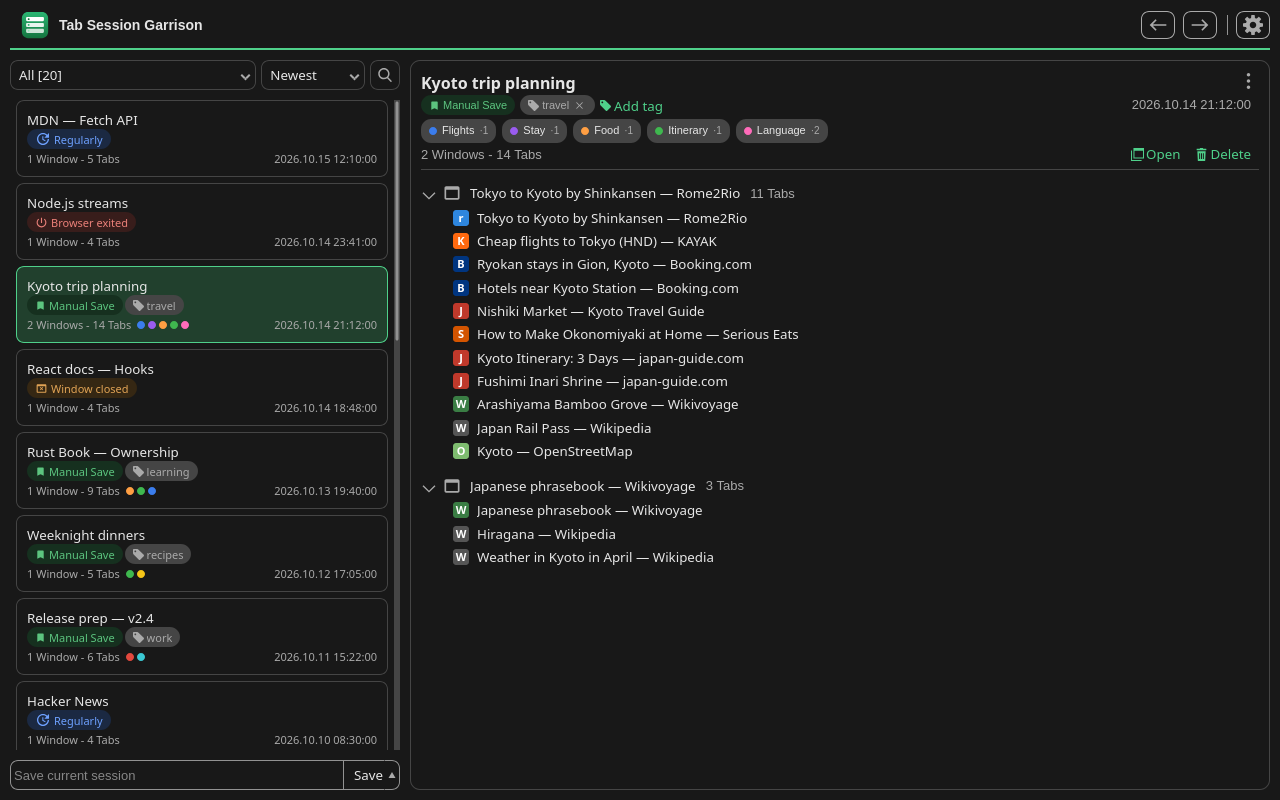
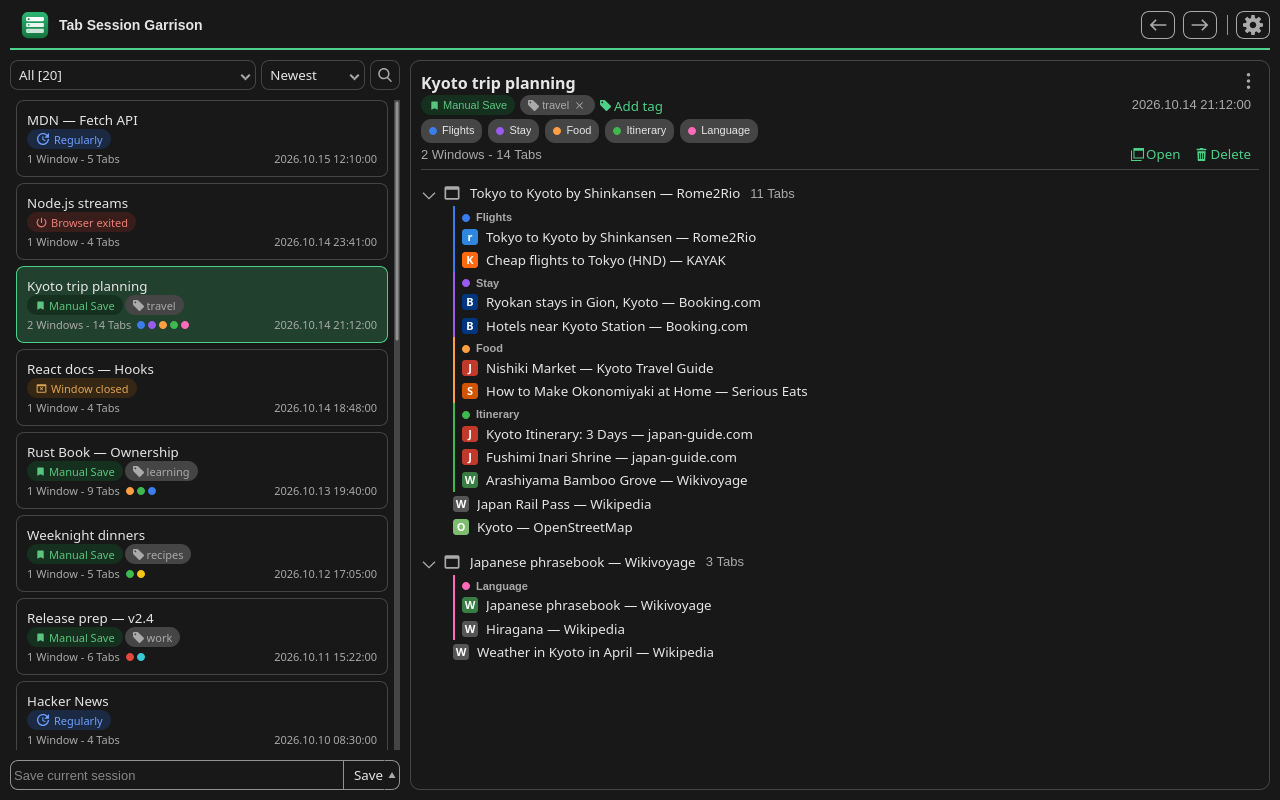
keyboard: visible focus ring, tidier cheat sheet; docs and screenshots
- The popup hid every focus outline; keyboard focus now shows a green
  ring (not on session rows, which are already highlighted).
- "?" cheat sheet: wider dialog with a themed scrollbar; the extend row
  reads "Shift + any move key" instead of six combos.
- README keyboard reference rewritten for the new keys, plus the 0.3.5
  reliability items; website gets a "Keyboard first" section.
- Screenshots regenerated (group runs in the tab list) + keyboard.png.

Changed region(s): [[0.3438, 0.25, 0.625, 0.8438], [0.375, 0.125, 0.6562, 0.1875]]

diff --git a/docs/index.html b/docs/index.html
@@ -166,6 +166,16 @@
   }
   .also { color: var(--muted); margin: 24px 0 0; font-size: .95rem; }
 
+  /* Keyboard */
+  .keys { display: grid; grid-template-columns: repeat(auto-fit, minmax(210px, 1fr)); gap: 10px; }
+  .keys div {
+    padding: 14px 16px;
+    background: var(--surface); border: 1px solid var(--border); border-radius: 12px;
+    color: var(--muted); font-size: .92rem;
+  }
+  .keys span { display: block; color: var(--text); font-weight: 600; margin-bottom: 4px; }
+  .keys p { margin: 0; }
+
   footer.wrap { border-top: 1px solid var(--border); color: var(--muted); font-size: .9rem; padding: 36px 16px 48px; }
   footer p { margin: 6px 0; }
 </style>
@@ -195,6 +205,7 @@
   <nav>
     <a href="#search">Search</a>
     <a href="#roadmap">Roadmap</a>
+    <a class="opt" href="#keyboard">Keyboard</a>
     <a class="opt" href="https://github.com/superuser-miguel/Tab-Session-Garrison">GitHub</a>
   </nav>
 </div>
@@ -332,15 +343,35 @@
   </div>
 </section>
 
+<section class="wrap" id="keyboard">
+  <span class="eyebrow">Keyboard first</span>
+  <h2>Never reach for the mouse.</h2>
+  <p class="sub">
+    Every part of the popup works from the keyboard. Press <kbd>?</kbd> in the popup to see
+    the keys; they're also listed in Settings → Shortcuts. An automated test presses every
+    key before each release, so they keep working.
+  </p>
+  <div class="keys">
+    <div><span><kbd>/</kbd> or just type</span><p>Search (<kbd>"</kbd> starts a phrase)</p></div>
+    <div><span><kbd>↑</kbd> <kbd>↓</kbd> <kbd>Home</kbd> <kbd>End</kbd></span><p>Move through sessions</p></div>
+    <div><span><kbd>Shift</kbd> + move</span><p>Select a range</p></div>
+    <div><span><kbd>Enter</kbd></span><p>Open</p></div>
+    <div><span><kbd>Ctrl</kbd>+<kbd>Enter</kbd> · <kbd>Alt</kbd>+<kbd>Enter</kbd></span><p>Replace or add to this window</p></div>
+    <div><span><kbd>→</kbd> <kbd>←</kbd></span><p>Into the tab list and back</p></div>
+    <div><span><kbd>F2</kbd> · <kbd>Shift</kbd>+<kbd>F2</kbd></span><p>Rename · add tags</p></div>
+    <div><span><kbd>Del</kbd> · <kbd>Ctrl</kbd>+<kbd>Z</kbd></span><p>Delete · undo</p></div>
+  </div>
+</section>
+
 <section class="wrap" id="more">
   <span class="eyebrow">The rest of the toolkit</span>
   <h2>Built for big profiles.</h2>
-  <p class="sub">Once you've found it, everything else stays fast and keyboard-friendly.</p>
+  <p class="sub">Once you've found it, everything else stays fast.</p>
   <div class="grid">
     <div class="card">
-      <h3>Keyboard first</h3>
-      <p>Arrows to move, <kbd>Shift</kbd>+arrows to extend, <kbd>Ctrl</kbd>+<kbd>A</kbd> to
-        select all, <kbd>Enter</kbd> to restore.</p>
+      <h3>Failures you can see</h3>
+      <p>If saving ever fails, a red <b>!</b> on the toolbar icon tells you, instead of auto-save
+        quietly stopping.</p>
     </div>
     <div class="card">
       <h3>Bulk actions, one undo</h3>

diff --git a/src/common/keymap.js b/src/common/keymap.js
@@ -10,7 +10,8 @@
 //   shift  true / false; "any" when the key itself needs Shift on some layouts ("?")
 //   alt    true / false
 // A binding with `text` instead of `key` is shown in lists but never matched
-// (e.g. "type any text").
+// (e.g. "type any text"). An entry's optional `display` replaces its bindings
+// in lists when spelling every binding out would be too long.
 
 export const KEY_AREAS = ["list", "search", "tabs", "dialogs", "anywhere"];
 
@@ -23,7 +24,8 @@ export const POPUP_KEYMAP = [
     action: "extend",
     area: "list",
     label: "keyExtendLabel",
-    bindings: MOVE_KEYS.map(key => ({ key, shift: true }))
+    bindings: MOVE_KEYS.map(key => ({ key, shift: true })),
+    display: [{ text: "keyShiftMoveKeysLabel", i18n: true }]
   },
   { action: "toggle", area: "list", label: "keyToggleLabel", bindings: [{ key: " " }] },
   { action: "selectAll", area: "list", label: "keySelectAllLabel", bindings: [{ key: "a", accel: true }] },

diff --git a/tools/screenshots/shoot.js b/tools/screenshots/shoot.js
@@ -75,6 +75,16 @@ async function main() {
         await save("session-types.png", await driver.findElement(By.css(".column.sidebar")));
       }
 
+      if (want("keyboard")) {
+        // the "?" cheat sheet over the list
+        await openPopup(w, h);
+        await clickRow("Kyoto trip planning");
+        await driver.actions().keyDown(Key.SHIFT).sendKeys("/").keyUp(Key.SHIFT).perform();
+        await sleep(800);
+        await parkMouse();
+        await save("keyboard.png");
+      }
+
       if (want("settings")) {
         // show the auto-savers ON (their defaults) — they were only switched off
         // so the throwaway browser wouldn't save sessions of its own

diff --git a/src/common/KeyboardReference.js b/src/common/KeyboardReference.js
@@ -25,7 +25,7 @@ const KeyboardReference = () => {
               {POPUP_KEYMAP.filter(entry => entry.area === area).map(entry => (
                 <tr key={entry.action}>
                   <td className="keys">
-                    {entry.bindings.map((binding, i) => (
+                    {(entry.display || entry.bindings).map((binding, i) => (
                       <kbd key={i}>{formatBinding(binding, getMessage)}</kbd>
                     ))}
                   </td>

diff --git a/src/popup/styles/body.scss b/src/popup/styles/body.scss
@@ -27,6 +27,13 @@ html {
     :focus {
       outline-style: none;
     }
+    // Keyboard users need to see where focus is. The selected session row is
+    // already highlighted, so it doesn't get a ring.
+    :focus-visible:not(.selectButton):not(#sessionsArea) {
+      outline: 2px solid var(--tsg-accent);
+      outline-offset: -2px;
+      border-radius: 4px;
+    }
 
     --main-text: #0c0c0d;
     --sub-text: #737373;

diff --git a/src/popup/styles/Modal.scss b/src/popup/styles/Modal.scss
@@ -40,6 +40,12 @@
     -moz-user-select: none;
     -webkit-user-select: none;
 
+    // The "?" key list needs more room than a normal dialog.
+    &:has(.keyboardReference) {
+      width: 560px;
+      max-width: 92%;
+    }
+
     hr {
       background-color: var(--line);
       height: 1px;

diff --git a/src/popup/components/Modal.js b/src/popup/components/Modal.js
@@ -72,6 +72,7 @@ export default class Modal extends Component {
       >
         <div
           id="modal"
+          className="scrollbar"
           ref="modal"
           role="dialog"
           onKeyDown={this.loopFocus}

diff --git a/README.md b/README.md
@@ -15,7 +15,7 @@ Everything Tab Session Manager does — save and restore the state of windows an
 ### Selection & bulk actions
 
 - **Multi-select** sessions with Ctrl/Cmd-click, Shift-click ranges, or the keyboard
-- **Full keyboard navigation** of the list — move, extend, select-all, restore, and delete without touching the mouse
+- **Full keyboard navigation** — the list, search, the tab list, menus and dialogs all work from the keyboard, with a **?** cheat sheet in the popup (see the [keyboard reference](#keyboard-reference))
 - **Bulk delete** with a single **"undo all"** — clear out dozens of stale auto-saves at once, and still get them back if you misclick
 - **Bulk restore** — open every selected session at once, each in its own new window (with a confirm so a stray keypress doesn't flood your screen)
 - An **"N selected" summary** panel — with **Open all** and **Delete** actions — so you always know what a bulk action will hit
@@ -24,7 +24,7 @@ Everything Tab Session Manager does — save and restore the state of windows an
 
 ### Tab groups
 
-- **Group indicators** — every session shows its Firefox tab groups at a glance: colored, named chips **grouped by window** in the detail pane, and colored dots on each list row
+- **Group indicators** — every session shows its Firefox tab groups at a glance: colored, named chips in the detail pane, colored dots on each list row, and in the tab list each group's tabs carry the group's colour and name
 - **Add a session to your current window as a tab group** — drop a saved session's tabs into the window you're in, tidied into one named group (and it preserves the session's own groups when it already has them)
 - **Phantom-group masking** — older auto-saves that captured stray groups from other windows are cleaned up at display time, non-destructively
 
@@ -32,12 +32,15 @@ Everything Tab Session Manager does — save and restore the state of windows an
 
 - **Exact phrases** — put words in quotes (`"release notes"`) to find that phrase inside a single tab title, session name or group name. Without quotes, each word can match anywhere in the session. An unfinished quote counts as a phrase while you type, and curly quotes work too
 - **Tab-group names are searchable** — type a group's name to find every session that contains it
-- Matches are highlighted in the list and in the detail pane
+- Matches are highlighted in the list and in the detail pane, and the filter menu shows how many sessions match (`All [3/20]`)
 
 ![A quoted search for "release notes" — only sessions with the phrase inside one tab title remain](docs/screenshots/phrase-search.png)
 
 ### Reliability & polish
 
+- **Failed saves are visible** — if saving ever fails (a full disk, a broken database), a red **!** appears on the toolbar icon and the popup says since when and why, instead of auto-save quietly stopping ([upstream #1667](https://github.com/sienori/Tab-Session-Manager/issues/1667)). The next successful save clears it
+- **Says why a tab couldn't open** — the "This page can not be opened" placeholder now shows Firefox's reason, e.g. "Illegal URL"
+- **Device name in backup file names** — optional, so backups from several computers sharing one folder can be told apart ([upstream #1664](https://github.com/sienori/Tab-Session-Manager/issues/1664))
 - **Durable auto-save** — fixes an upstream bug where periodic auto-save could silently stop after the browser suspended or restarted; the alarm now self-heals
 - **Session types at a glance** — every session shows how it was saved, each with its own icon and tint: **Manual Save** (green bookmark), **Regularly** (blue clock), **Window closed** (amber window), **Browser exited** (red power). The saves you deliberately keep finally stand out from the auto-save noise (see [How a session gets its type](#how-a-session-gets-its-type))
 - **Undo count at a glance** — the undo/redo buttons carry a small badge with how many steps you can go back or forward
@@ -72,20 +75,42 @@ The three automatic types carry a stored marker, so they're always exact. **Manu
 
 ![The four colour-coded session types in the list](docs/screenshots/session-types.png)
 
-### Keyboard & selection reference
+### Keyboard reference
 
-| Input | Action |
+Everything works without the mouse. Press **?** in the popup for this list, or see **Settings → Shortcuts**. Both come from one list in the code ([`src/common/keymap.js`](src/common/keymap.js)), and `tools/screenshots/keytest.js` presses every key before a release.
+
+![The "?" cheat sheet in the popup](docs/screenshots/keyboard.png)
+
+**Session list**
+
+| Keys | Action |
 |---|---|
-| Click | Select one session |
-| Ctrl/Cmd + Click | Toggle one session in/out of the selection |
-| Shift + Click | Select the range from the anchor to the clicked row |
-| ↑ / ↓ | Move the selection |
-| Shift + ↑ / ↓ | Extend the selection |
-| Space | Toggle the focused row |
-| Ctrl/Cmd + A | Select all visible sessions (respects filter/search) |
+| ↑ ↓ Home End PgUp PgDn | Move the selection |
+| Shift + the same keys | Extend the selection |
+| Space | Add or remove the session from the selection |
+| Ctrl/⌘ + A | Select all visible sessions (respects filter and search) |
+| Esc | Back to a single selection |
+| Enter | Open (several: each in its own new window, after a confirm) |
+| Ctrl/⌘ + Enter | Open in the current window, replacing its tabs |
+| Alt + Enter | Add to the current window |
 | Delete / Backspace | Delete the selection (confirms when more than one) |
-| Esc | Collapse back to a single selection |
-| Enter / Shift + Enter | Restore the selection — one session directly, or several each in their own new window (confirms first) |
+| F2 | Rename the session |
+| Shift + F2 | Add tags |
+| Shift + F10 / Menu key | Open the session menu |
+| → | Move into the tab list |
+| / or just start typing | Search (`"` starts a phrase) |
+
+**Search box:** Enter or ↓ goes to the first result; Esc clears the search, then closes it.
+
+**Tab list:** ↑ ↓ Home End move between tabs, Enter opens the tab, Delete removes it from the session, ← or Esc goes back to the session list.
+
+**Menus and dialogs:** ↑ ↓ move between menu items, Esc closes.
+
+**Anywhere in the popup:** Ctrl/⌘ + Z undo, Ctrl/⌘ + Shift + Z (or Ctrl + Y) redo, ? shows the list of keys, Tab / Shift + Tab move between the list, the search box and the save box.
+
+**Mouse:** Ctrl/⌘ + click toggles one session in or out of the selection; Shift + click selects a range.
+
+**Browser-wide** (change them in Settings → Shortcuts): open the popup (Ctrl+Shift+L by default), save all windows, save the current window, export sessions.
 
 ---
 

diff --git a/tools/screenshots/README.md b/tools/screenshots/README.md
@@ -16,7 +16,15 @@ ONLY=phrase-search,settings node shoot.js "" ./out   # just some shots
   session types, tags, tab groups, multi-window sessions). Edit it, then
   `node make-demo-data.js`.
 - Shots: `list-and-details`, `multi-select`, `phrase-search` (1200×720, plus 1280×800
-  `-amo` versions for the store), `session-types` (a crop of the list) and `settings`.
+  `-amo` versions for the store), `session-types` (a crop of the list), `keyboard`
+  (the "?" cheat sheet) and `settings`.
+
+## Keyboard test
+
+`node keytest.js` presses every popup key on the demo data and checks the result
+(selection, search, cheat sheet, rename/tag dialogs, menus, tab list, delete + undo,
+the Shortcuts page, the "can not be opened" reason and the failed-save notice). Run it
+before each release; it exits non-zero on any failure. `harness.js` is the shared setup.
 - geckodriver must run with `--allow-system-access` (shoot.js does this), or Firefox
   157+ refuses to open the extension's pages. Puppeteer can't drive extension pages
   in Firefox, which is why this uses Selenium.

diff --git a/docs/screenshots/README.md b/docs/screenshots/README.md
@@ -8,5 +8,6 @@ fictional demo data by the harness in [`tools/screenshots`](../../tools/screensh
 - `multi-select.png` — several sessions selected, with the Open all / Delete panel
 - `phrase-search.png` — a quoted `"release notes"` search
 - `session-types.png` — the four colour-coded session types
+- `keyboard.png` — the "?" keyboard cheat sheet in the popup
 - `settings.png` — the Settings page with the focused card
 - `*-amo.png` — 1280×800 versions for the addons.mozilla.org listing
